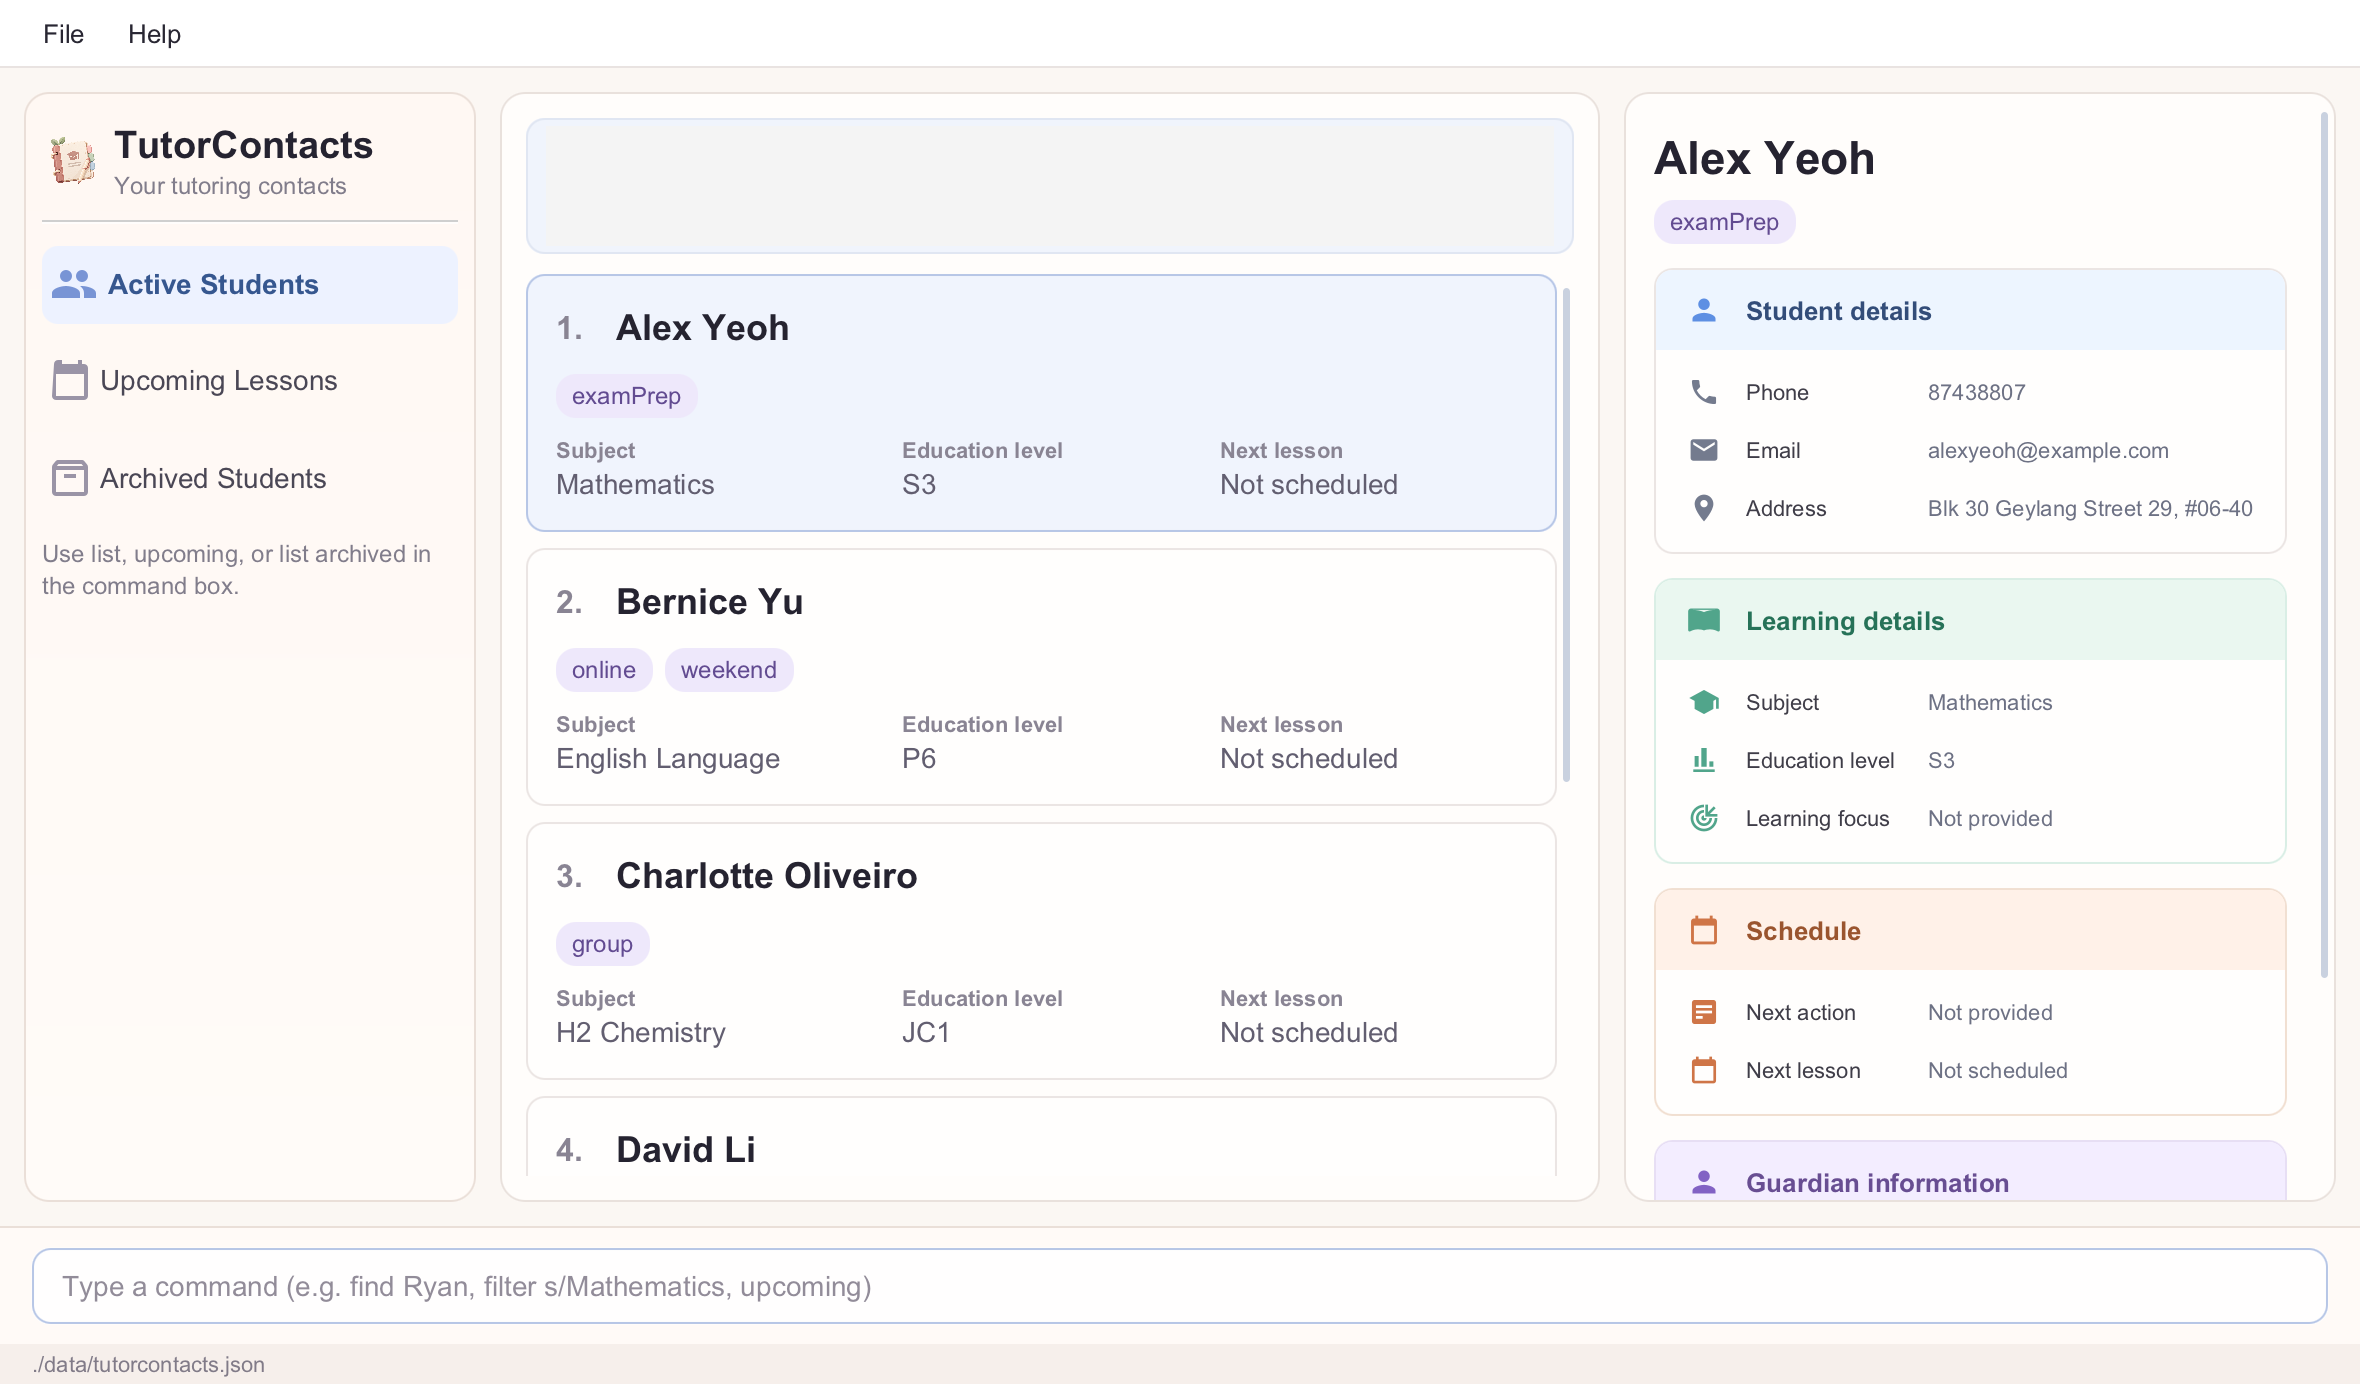
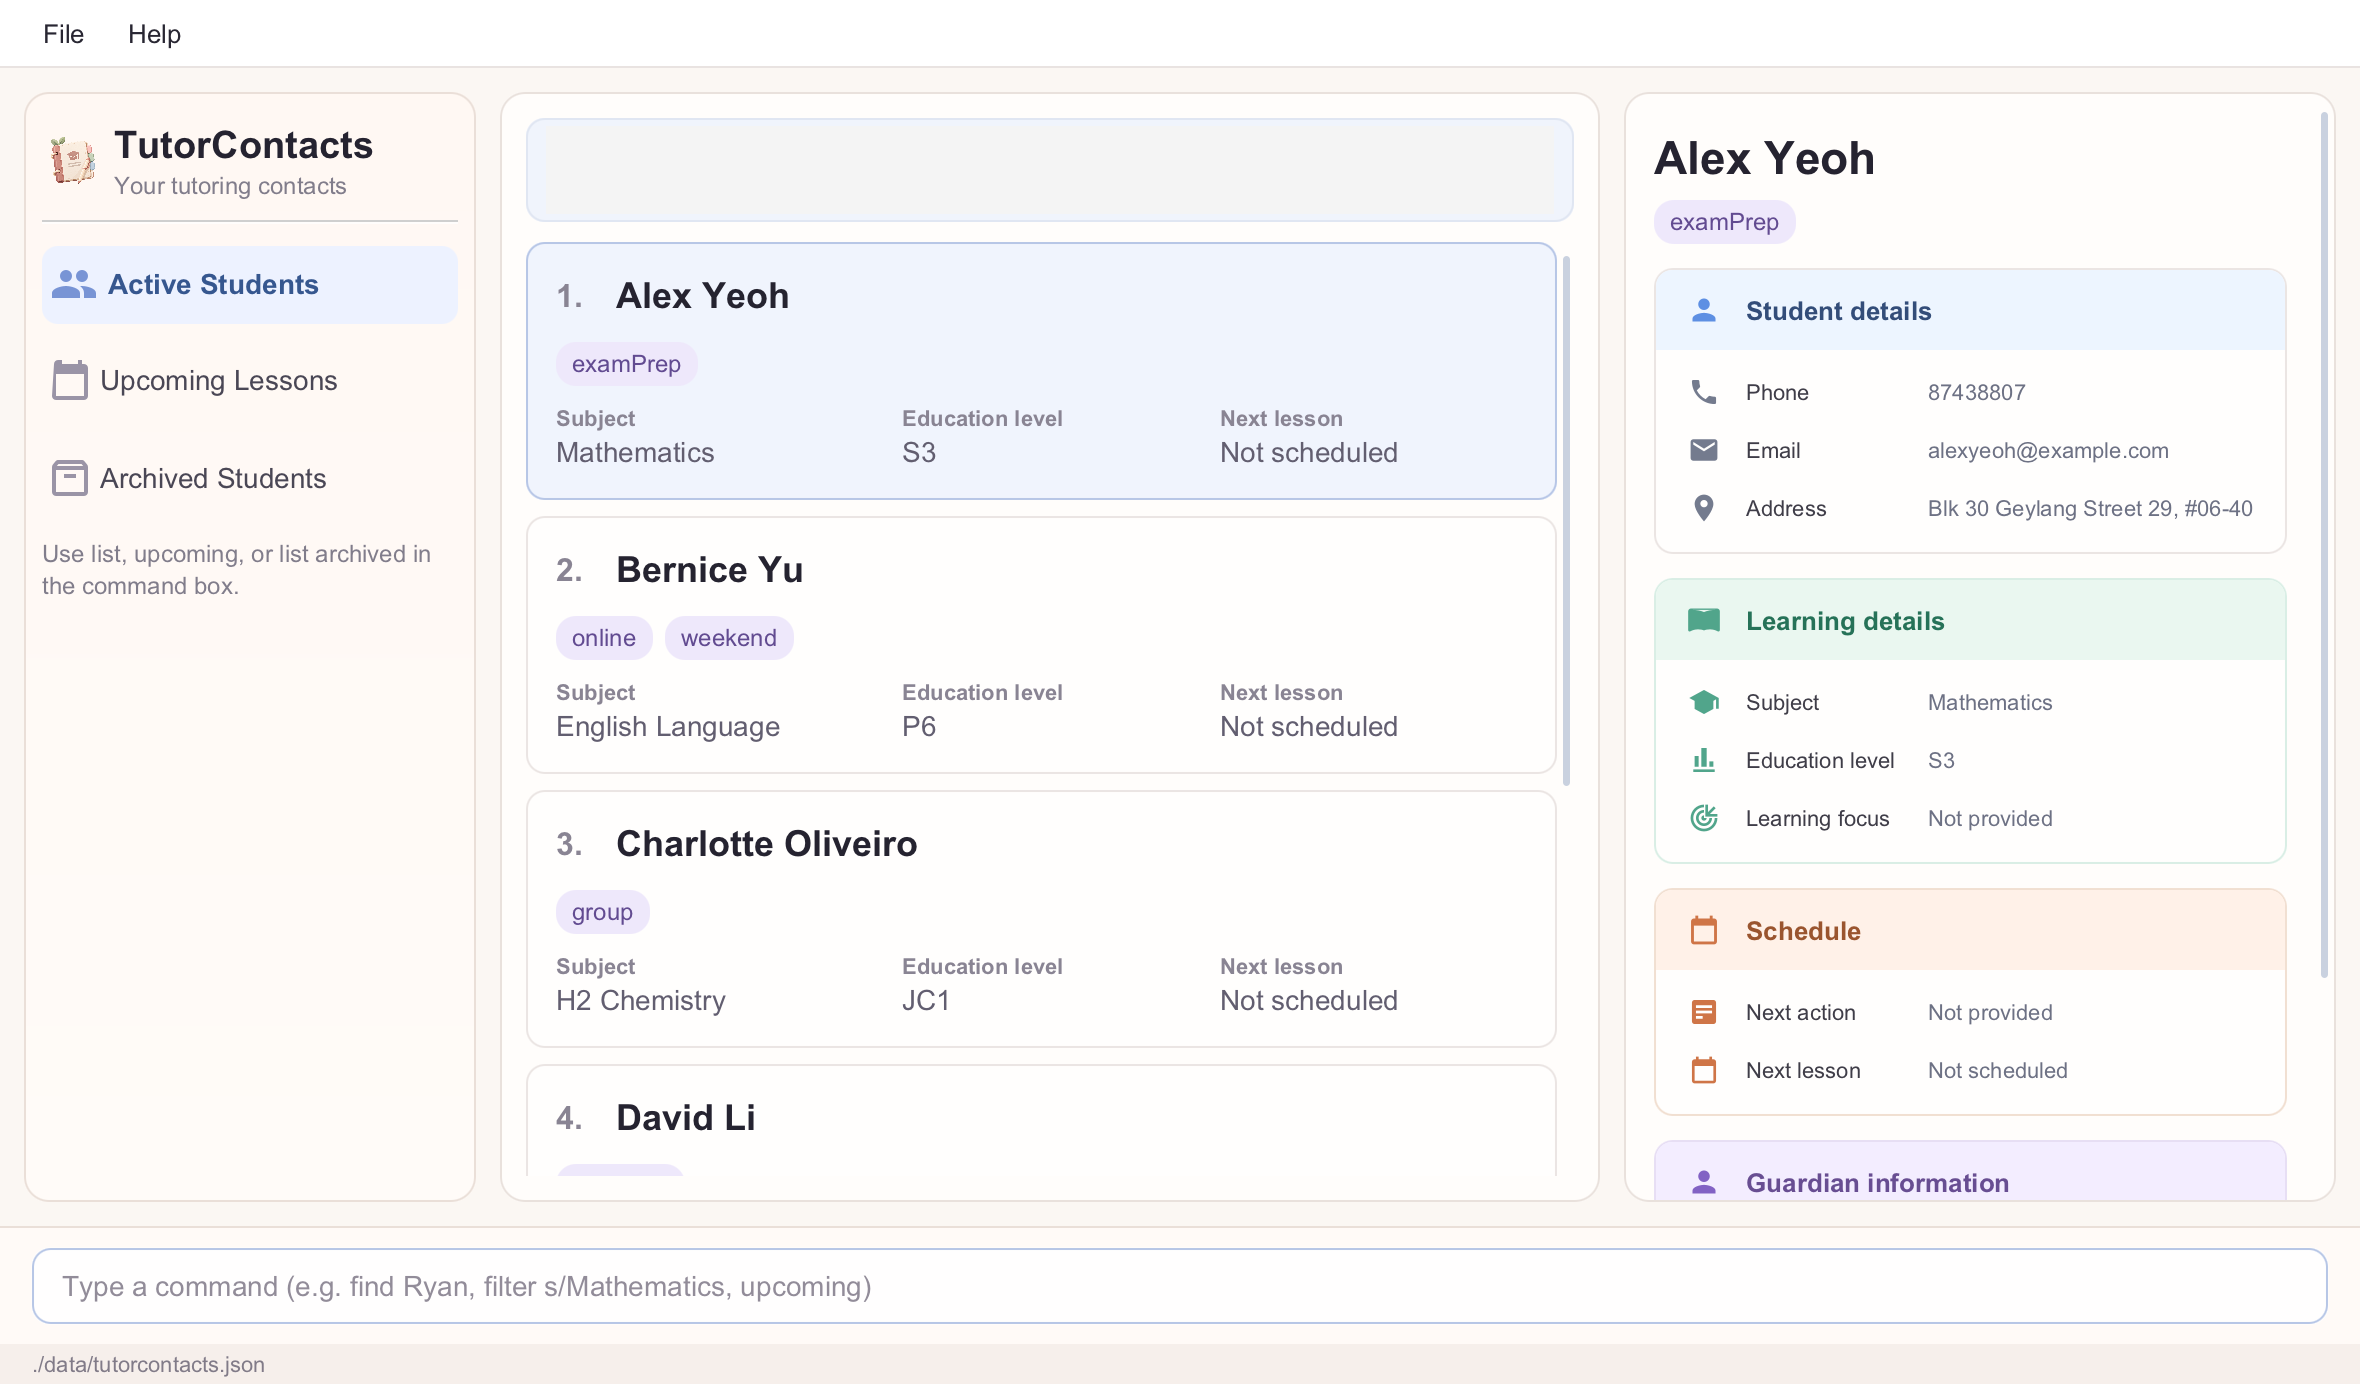
Reduce the result panel to two lines
A 68-pixel result panel leaves a large gap under one-line messages
such as the `list` confirmation, and it shortens the student list.

Set the panel to 52 pixels. Most messages fit at the default window
size, and longer messages scroll. Update the guides, the manual test,
and the main window screenshot to match.

diff --git a/src/test/java/seedu/address/ui/MainWindowFxmlTest.java b/src/test/java/seedu/address/ui/MainWindowFxmlTest.java
@@ -47,11 +47,11 @@ public class MainWindowFxmlTest {
     }
 
     @Test
-    public void mainWindowFxml_resultPanelFitsThreeLines() throws IOException, URISyntaxException {
+    public void mainWindowFxml_resultPanelFitsTwoLines() throws IOException, URISyntaxException {
         String fxml = readResource("/view/MainWindow.fxml");
         String stylesheet = readResource("/view/TutorContactsTheme.css");
 
-        assertTrue(fxml.contains("minHeight=\"68\" prefHeight=\"68\" maxHeight=\"68\""));
+        assertTrue(fxml.contains("minHeight=\"52\" prefHeight=\"52\" maxHeight=\"52\""));
         assertTrue(stylesheet.contains(".result-display .content {\n"
                 + "    -fx-background-color: transparent;\n"
                 + "    -fx-background-insets: 0;\n"

diff --git a/docs/DeveloperGuide.md b/docs/DeveloperGuide.md
@@ -79,7 +79,7 @@ The UI consists of a `MainWindow` and its parts: `CommandBox`, `ResultDisplay`, 
 
 `MainWindow` also holds the sidebar with the Active Students, Upcoming Lessons, and Archived Students buttons. Each button runs `list`, `upcoming`, or `list archived` through the same method as a typed command, so the feedback and displayed indices are the same, and the highlighted button follows the view shown by the last command. `PersonDetailsPanel` shows the read-only details of the student selected in `PersonListPanel`, which keeps that student selected when the displayed list changes. `PersonCard` and `PersonDetailsPanel` format a student through the shared `StudentDisplayFormatter`, so missing values and overdue lessons look the same in both.
 
-The window can shrink to `820 × 450` so that it fits a `1280 × 720` screen at 150% scaling, and `MainWindow` limits the saved or default window size to the primary screen when it opens. To stay readable at that size, `ResultDisplay` shows up to three lines before it scrolls, `PersonCard` wraps tags in a row below the name so that tags cannot hide the name, and very long tags are shortened with `...` in both the card and `PersonDetailsPanel`. Font sizes stay fixed, so a card shortens long text with `...` when it runs out of width.
+The window can shrink to `820 × 450` so that it fits a `1280 × 720` screen at 150% scaling, and `MainWindow` limits the saved or default window size to the primary screen when it opens. To stay readable at that size, `ResultDisplay` shows two lines before it scrolls, `PersonCard` wraps tags in a row below the name so that tags cannot hide the name, and very long tags are shortened with `...` in both the card and `PersonDetailsPanel`. Font sizes stay fixed, so a card shortens long text with `...` when it runs out of width.
 
 The `UI` component uses the JavaFX UI framework. The layouts of these UI parts are defined in matching `.fxml` files in `src/main/resources/view`. For example, [`MainWindow.fxml`](https://github.com/AY2627S1-CS2103T-W10-3/tp/tree/master/src/main/resources/view/MainWindow.fxml) specifies the layout of [`MainWindow`](https://github.com/AY2627S1-CS2103T-W10-3/tp/tree/master/src/main/java/seedu/address/ui/MainWindow.java).
 
@@ -955,8 +955,8 @@ testers are expected to do more *exploratory* testing.
    1. Prerequisites: Run `edit 1 t/examPrep t/group t/olympiad t/online t/scholarship t/weekend`, then resize the window to its smallest size.<br>
       Expected: The first card shows its name, and its tags wrap below the name. Sidebar labels and phone numbers are not cut off.
 
-   1. Test case: `schedule 1 at/2026-10-30 HH:mm`<br>
-      Expected: The whole error message is visible in the result panel without scrolling.
+   1. Test case: `schedule 1 at/2099-10-30 16:00`<br>
+      Expected: The whole message is visible in the result panel without scrolling.
 
 1. Exiting from the command box
 

diff --git a/docs/UserGuide.md b/docs/UserGuide.md
@@ -67,7 +67,7 @@ The window has five areas. You can do everything by typing commands; the mouse i
 | Area | Where | What it does |
 |------|-------|--------------|
 | Command box | Bottom | Type a command and press Enter. The box keeps keyboard focus after each command, so you can type the next one immediately. |
-| Result panel | Top of the centre column | Shows the outcome of the last command, or the reason it was rejected. Up to three lines are visible at once; scroll the panel to read longer messages. |
+| Result panel | Top of the centre column | Shows the outcome of the last command, or the reason it was rejected. Two lines are visible at once; scroll the panel to read longer messages. |
 | Student list | Centre | Shows the current result view. Each card shows the displayed index, name, tags, subject, education level, and next lesson. Tags wrap onto extra rows. In a narrow window, or for very long values, a card shortens the text with `...`; the details panel shows it in full, except that very long tags stay shortened there too. Index-based commands use the index shown here. |
 | Details panel | Right | Shows every detail of the selected student: contact, learning, schedule, and guardian information. Click another card, or focus the list and use the arrow keys, to view another student. If the selected student leaves the current view, the first student is selected. |
 | Views sidebar | Left | **Active Students**, **Upcoming Lessons**, and **Archived Students** run `list`, `upcoming`, and `list archived` respectively. The highlighted button shows the current view; `find` and `filter` results keep **Active Students** highlighted because they show active students, and `edit` keeps the current view highlighted. |
